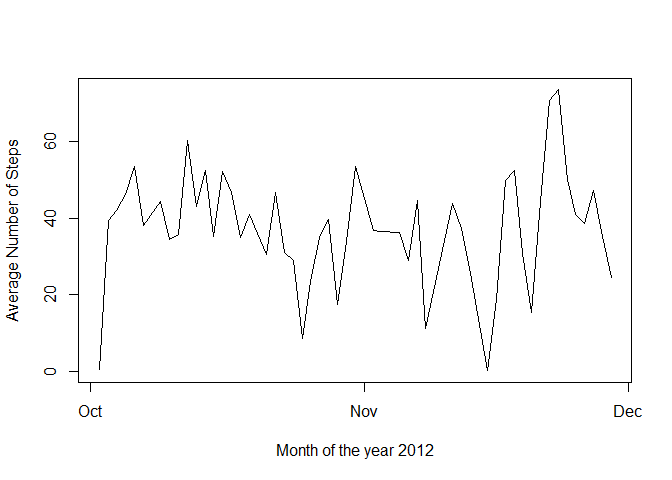
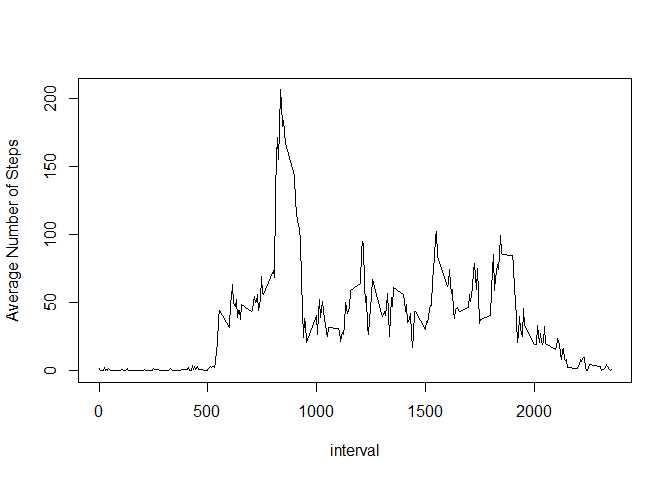
Question with average number of steps corrected

diff --git a/PA1_template.html b/PA1_template.html
@@ -167,28 +167,28 @@ abline(v = mean(TotalNumberOfStepsEachDay$steps), col = &quot;green&quot;, lwd =
 <div id="what-is-the-average-daily-activity-pattern" class="section level2">
 <h2>What is the average daily activity pattern?</h2>
 <p>In order to construct the time series plot of the average number of steps taken, the data must be “aggregated” using the following code:</p>
-<pre class="r"><code># Average Number of Steps taken each day
-AverageNumberOfStepsEachDay &lt;- aggregate(steps~date, data=AMD_original, FUN=mean, na.rm=TRUE)</code></pre>
+<pre class="r"><code># Average Number of Steps taken over intervals
+AverageNumberOfStepsOverInterval &lt;- aggregate(steps~interval, data=AMD_original, FUN=mean, na.rm=TRUE)</code></pre>
 <p>Time series plot of the average number of steps taken is constructed using this code:</p>
-<pre class="r"><code># Plot of Average Number of Steps taken each day
-with(AverageNumberOfStepsEachDay,
-     plot(steps~date, 
+<pre class="r"><code># Plot of Average Number of Steps taken over intervals
+with(AverageNumberOfStepsOverInterval,
+     plot(steps~interval, 
           type=&quot;l&quot;,
           col=&quot;black&quot;, 
-          xlab=&quot;Month of the year 2012&quot;, 
+          xlab=&quot;interval&quot;, 
           ylab=&quot;Average Number of Steps&quot;
           )
      )</code></pre>
[1 lines of base64/hex data omitted]
-<p>In order to find the 5-minute interval that, on average, contains the maximum number of steps, the original data has to be put in descendng order in steps. Then, the top row is the row with the maximum number of steps. It is done with the following code:</p>
[1 lines of base64/hex data omitted]
+<p>In order to find the 5-minute interval that, on average, contains the maximum number of steps, the original data has to be put in descendng order in steps. Then, the top row is the row with the maximum number of average steps.</p>
 <pre class="r"><code># Sorting the original data and accessing the first row
-AMD_original[order(-AMD_original$steps),][1,]</code></pre>
-<pre><code>##       steps       date interval
-## 16492   806 2012-11-27      615</code></pre>
-<p>The 5-minute interval that, on average, contains the maximum number of steps is this one:</p>
+AverageNumberOfStepsOverInterval[order(-AverageNumberOfStepsOverInterval$steps),][1,]</code></pre>
+<pre><code>##     interval    steps
+## 104      835 206.1698</code></pre>
+<p>The 5-minute interval that, on average, contains the maximum number of steps is identified as:</p>
 <pre class="r"><code># Accessing the correct row, column:
-AMD_original[order(-AMD_original$steps),]$interval[1]</code></pre>
-<pre><code>## [1] 615</code></pre>
+AverageNumberOfStepsOverInterval[order(-AverageNumberOfStepsOverInterval$steps),]$interval[1]</code></pre>
+<pre><code>## [1] 835</code></pre>
 </div>
 <div id="imputing-missing-data" class="section level2">
 <h2>Imputing missing data</h2>

diff --git a/PA1_template.md b/PA1_template.md
@@ -79,20 +79,20 @@ In order to construct the time series plot of the average number of steps taken,
 
 
 ```r
-# Average Number of Steps taken each day
-AverageNumberOfStepsEachDay <- aggregate(steps~date, data=AMD_original, FUN=mean, na.rm=TRUE)
+# Average Number of Steps taken over intervals
+AverageNumberOfStepsOverInterval <- aggregate(steps~interval, data=AMD_original, FUN=mean, na.rm=TRUE)
 ```
 
 Time series plot of the average number of steps taken is constructed using this code:
 
 
 ```r
-# Plot of Average Number of Steps taken each day
-with(AverageNumberOfStepsEachDay,
-     plot(steps~date, 
+# Plot of Average Number of Steps taken over intervals
+with(AverageNumberOfStepsOverInterval,
+     plot(steps~interval, 
           type="l",
           col="black", 
-          xlab="Month of the year 2012", 
+          xlab="interval", 
           ylab="Average Number of Steps"
           )
      )
@@ -100,30 +100,31 @@ with(AverageNumberOfStepsEachDay,
 
 ![](PA1_template_files/figure-html/unnamed-chunk-5-1.png)<!-- -->
 
-In order to find the 5-minute interval that, on average, contains the maximum number of steps, the original data has to be put in descendng order in steps. Then, the top row is the row with the maximum number of steps. It is done with the following code:
+In order to find the 5-minute interval that, on average, contains the maximum number of steps, the original data has to be put in descendng order in steps. Then, the top row is the row with the maximum number of average steps. 
 
 
 ```r
 # Sorting the original data and accessing the first row
-AMD_original[order(-AMD_original$steps),][1,]
+AverageNumberOfStepsOverInterval[order(-AverageNumberOfStepsOverInterval$steps),][1,]
 ```
 
 ```
-##       steps       date interval
-## 16492   806 2012-11-27      615
+##     interval    steps
+## 104      835 206.1698
 ```
 
-The 5-minute interval that, on average, contains the maximum number of steps is this one:
+The 5-minute interval that, on average, contains the maximum number of steps is identified as:
 
 
 ```r
 # Accessing the correct row, column:
-AMD_original[order(-AMD_original$steps),]$interval[1]
+AverageNumberOfStepsOverInterval[order(-AverageNumberOfStepsOverInterval$steps),]$interval[1]
 ```
 
 ```
-## [1] 615
+## [1] 835
 ```
+
 
 ## Imputing missing data
 
